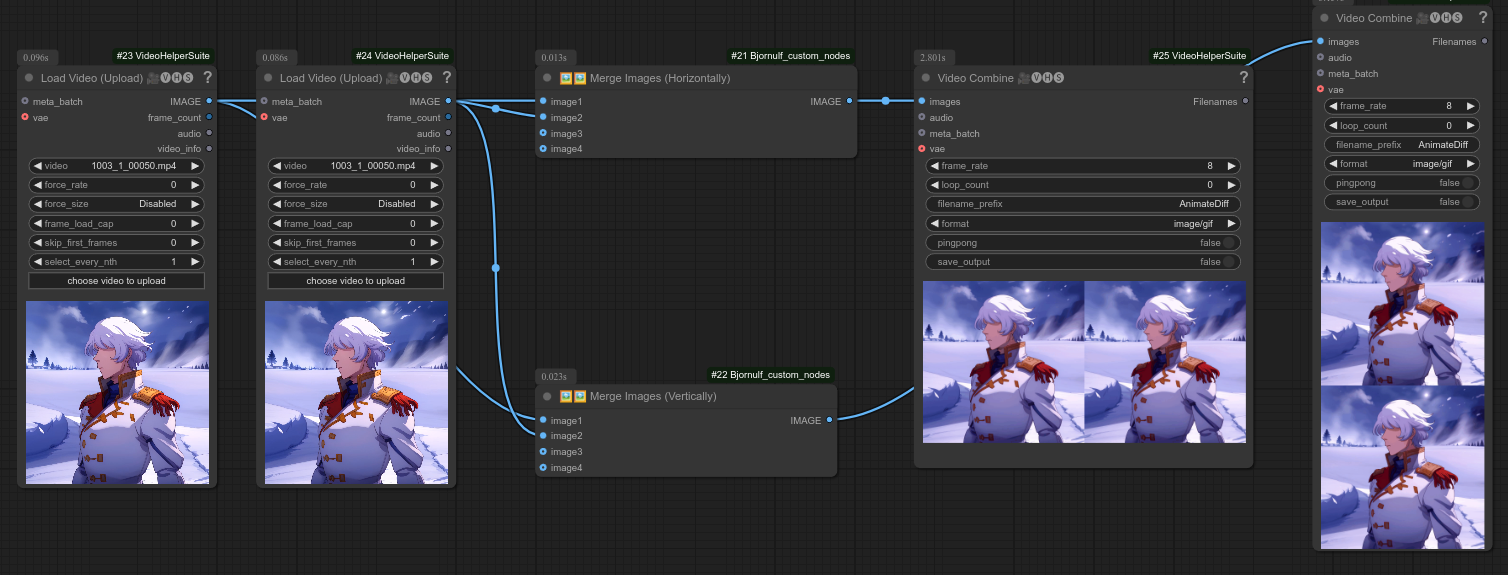
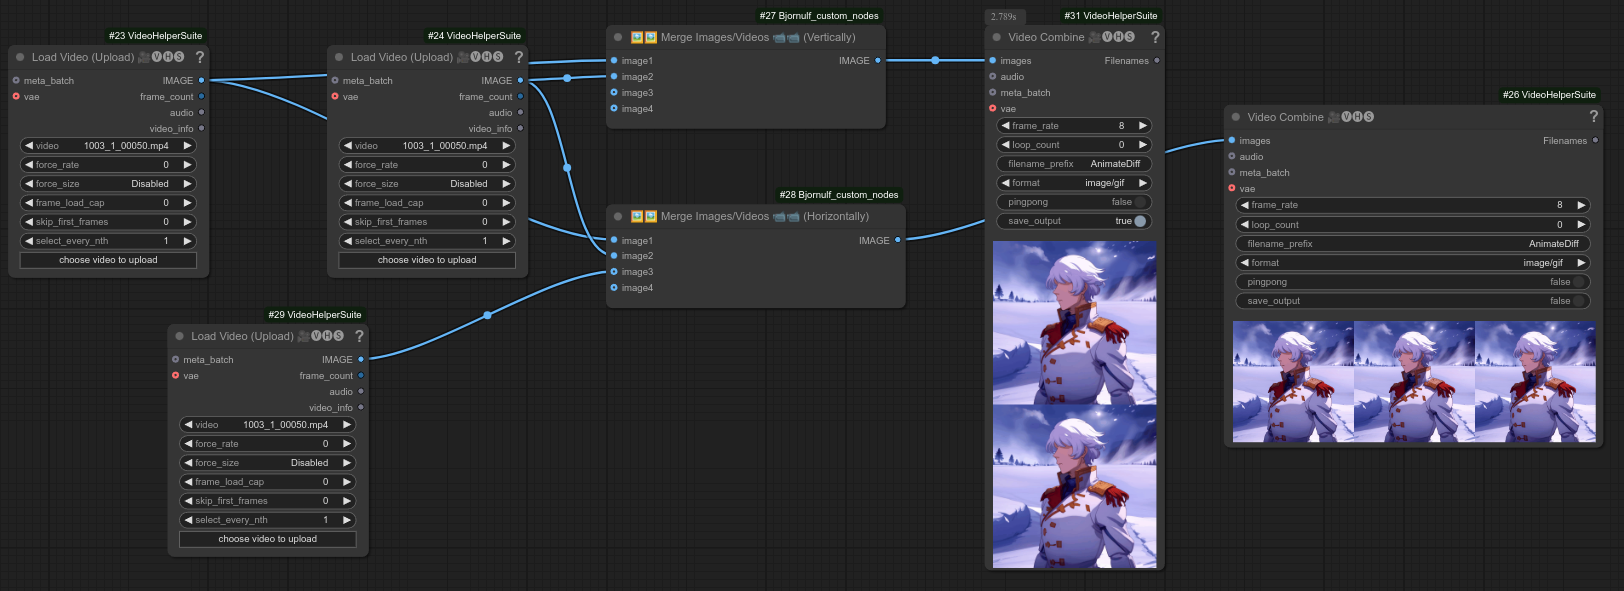
...

diff --git a/README.md b/README.md
@@ -82,8 +82,8 @@ You can manage looping operations, generate randomized content, trigger logical 
 `44.` [🖼👈 Select an Image, Pick](#44----select-an-image-pick)  
 `46.` [🖼🔍 Image Details](#46----image-details)  
 `47.` [🖼 Combine Images](#47----combine-images)  
-`60.` [🖼🖼 Merge Images/Videos 📹📹 (Horizontally)](#60)  
-`61.` [🖼🖼 Merge Images/Videos 📹📹 (Vertically)](#61)  
+`60.` [🖼🖼 Merge Images/Videos 📹📹 (Horizontally)](#60----merge-imagesvideos--horizontally)  
+`61.` [🖼🖼 Merge Images/Videos 📹📹 (Vertically)](#61----merge-imagesvideos--vertically)  
 
 ## 🚀 Load checkpoints 🚀
 `40.` [🎲 Random (Model+Clip+Vae) - aka Checkpoint / Model](#40----random-modelclipvae---aka-checkpoint--model)  
@@ -104,8 +104,8 @@ You can manage looping operations, generate randomized content, trigger logical 
 `52.` [🔊📹 Audio Video Sync](#52----audio-video-sync) 
 `58.` [📹🔗 Concat Videos](#58----concat-videos)  
 `59.` [📹🔊 Combine Video + Audio](#59----combine-video--audio)  
-`60.` [🖼🖼 Merge Images/Videos 📹📹 (Horizontally)](#60)  
-`61.` [🖼🖼 Merge Images/Videos 📹📹 (Vertically)](#61)  
+`60.` [🖼🖼 Merge Images/Videos 📹📹 (Horizontally)](#60----merge-imagesvideos--horizontally)  
+`61.` [🖼🖼 Merge Images/Videos 📹📹 (Vertically)](#61----merge-imagesvideos--vertically)  
 
 ## 🤖 AI 🤖
 `19.` [🦙 Ollama](#19----ollama)  
@@ -1002,3 +1002,7 @@ Here is on possible example for videos with node 60 and 61 :
 Merge images or videos vertically.  
 
 ![merge images](screenshots/merge_images_v.png)  
+
+Here is on possible example for videos with node 60 and 61 :  
+
+![merge videos](screenshots/merge_videos.png)  
